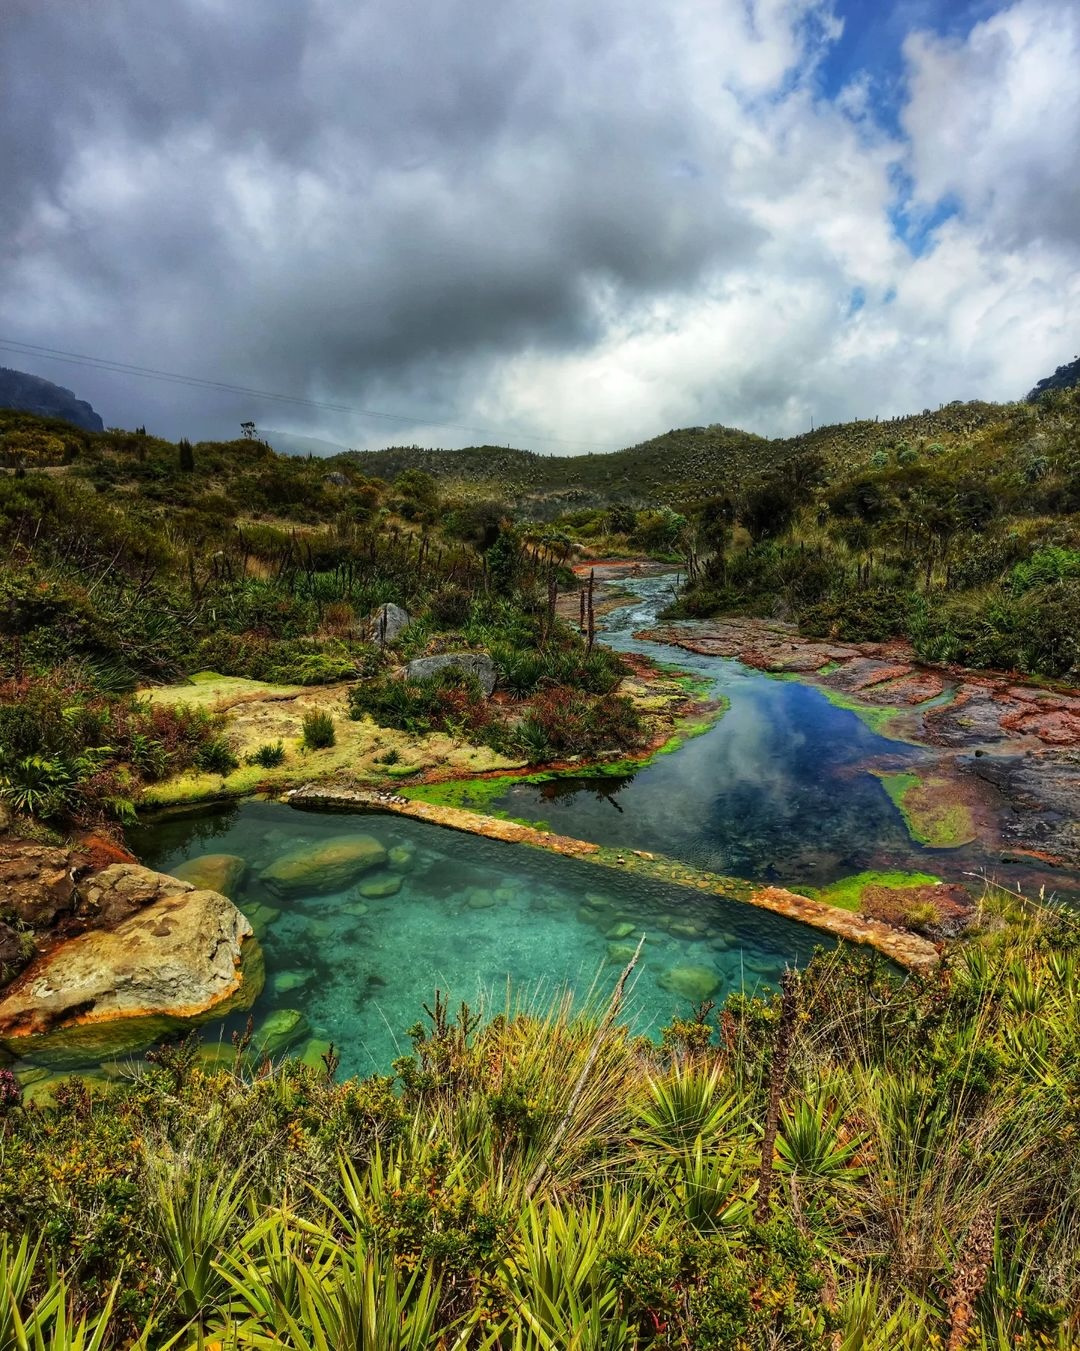
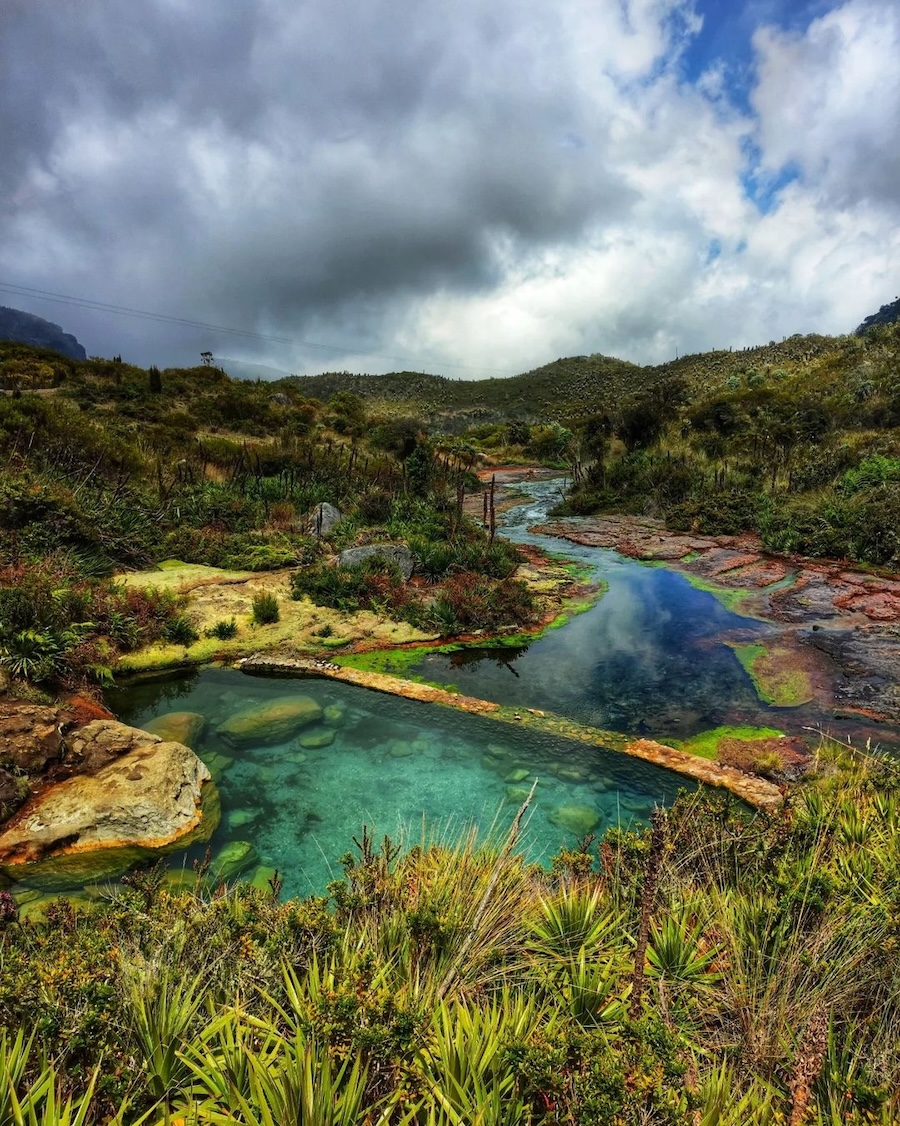
cabaña-2

diff --git a/rutas/colombia/tolima/termales-de-la-cabana.md b/rutas/colombia/tolima/termales-de-la-cabana.md
@@ -205,8 +205,8 @@ Después de esta hermosa cascada, continuamos caminando por cerca de casi 1 hora
 {% include image.html,
 file:"rutas/tolima/termales-de-la-cabaña/termales-de-la-cabaña.jpg",
 caption:"Foto: Termales La Cabaña",
-width:"1080",
-height:"1351"
+width:"900",
+height:"1126"
 %}
 
 __<span class="advise"> Foto por:  <a href="https://www.instagram.com/japilife/"  target="_blank"> @japilife </a> </span>__
